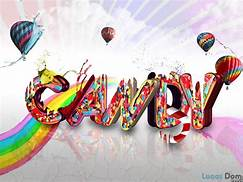
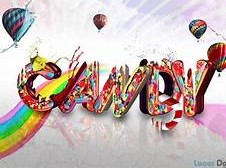
update

diff --git a/Project_4/CSS/styles.css b/Project_4/CSS/styles.css
@@ -17,7 +17,7 @@ img {
 header {
     background-image: url('../images/candy.jpg');
     background-size: cover;
-    padding: 20px 0;
+    padding: 70px 0;
 }
 header h1 {
     color: #D6A75E;
